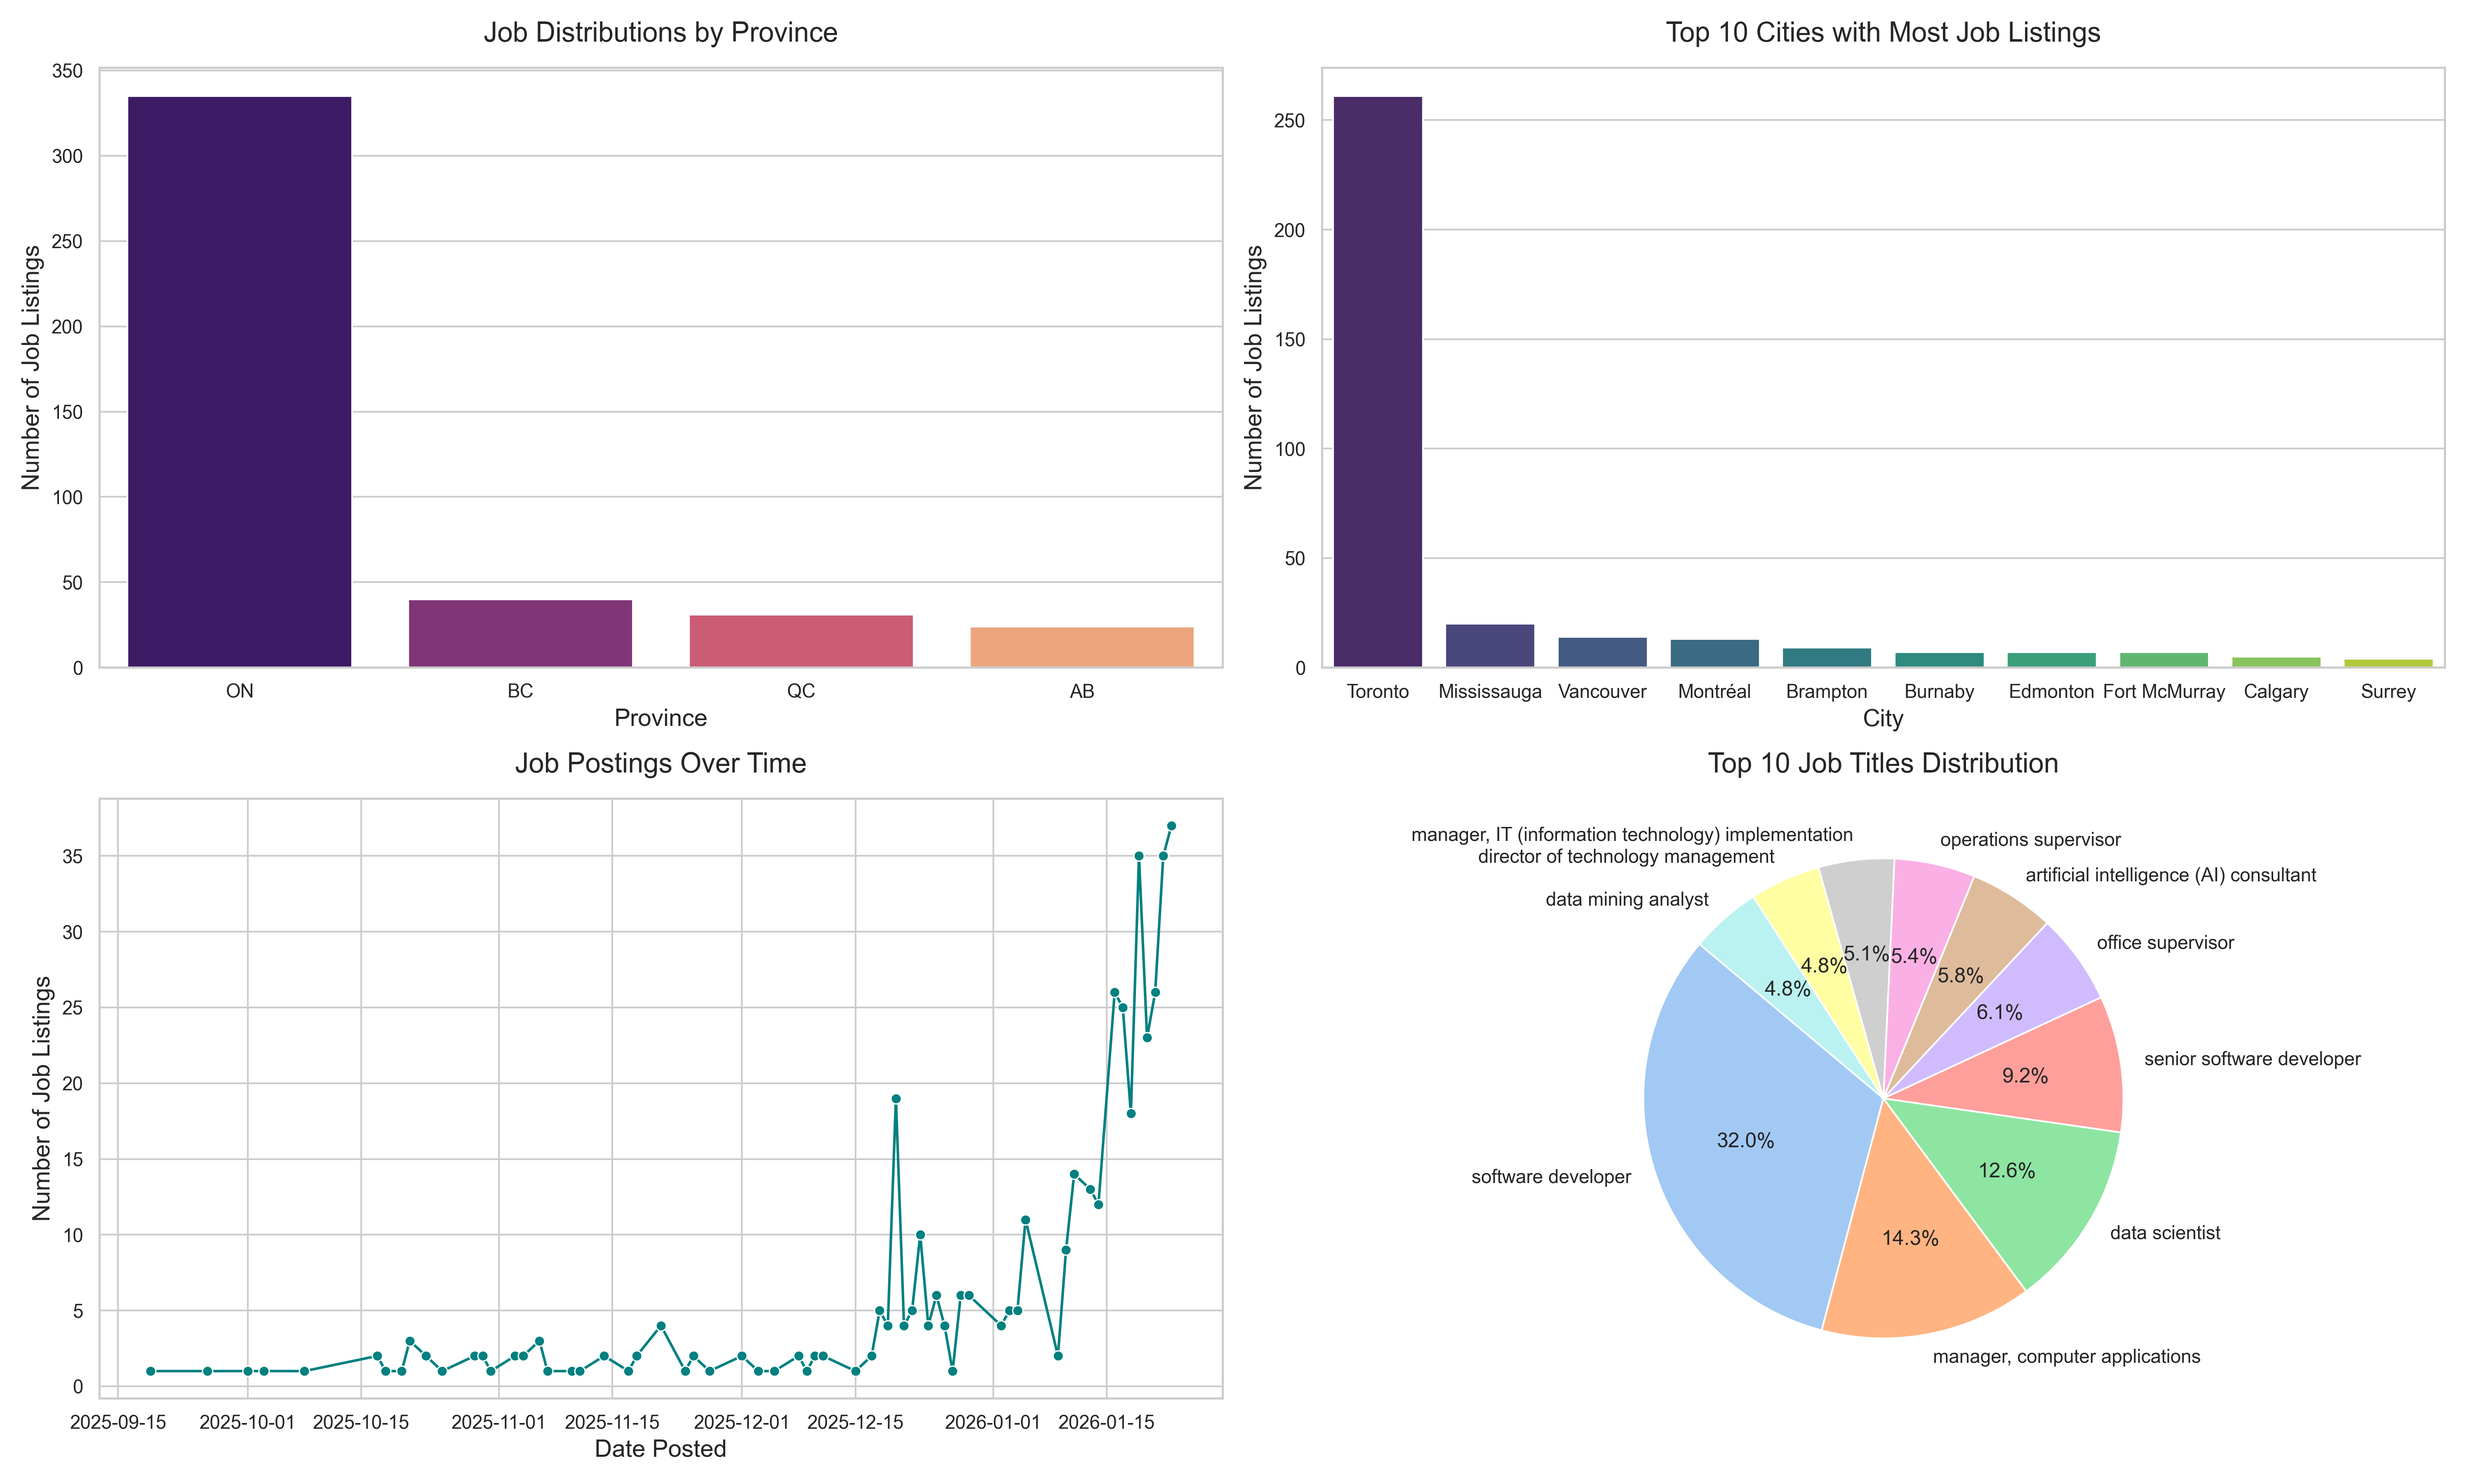
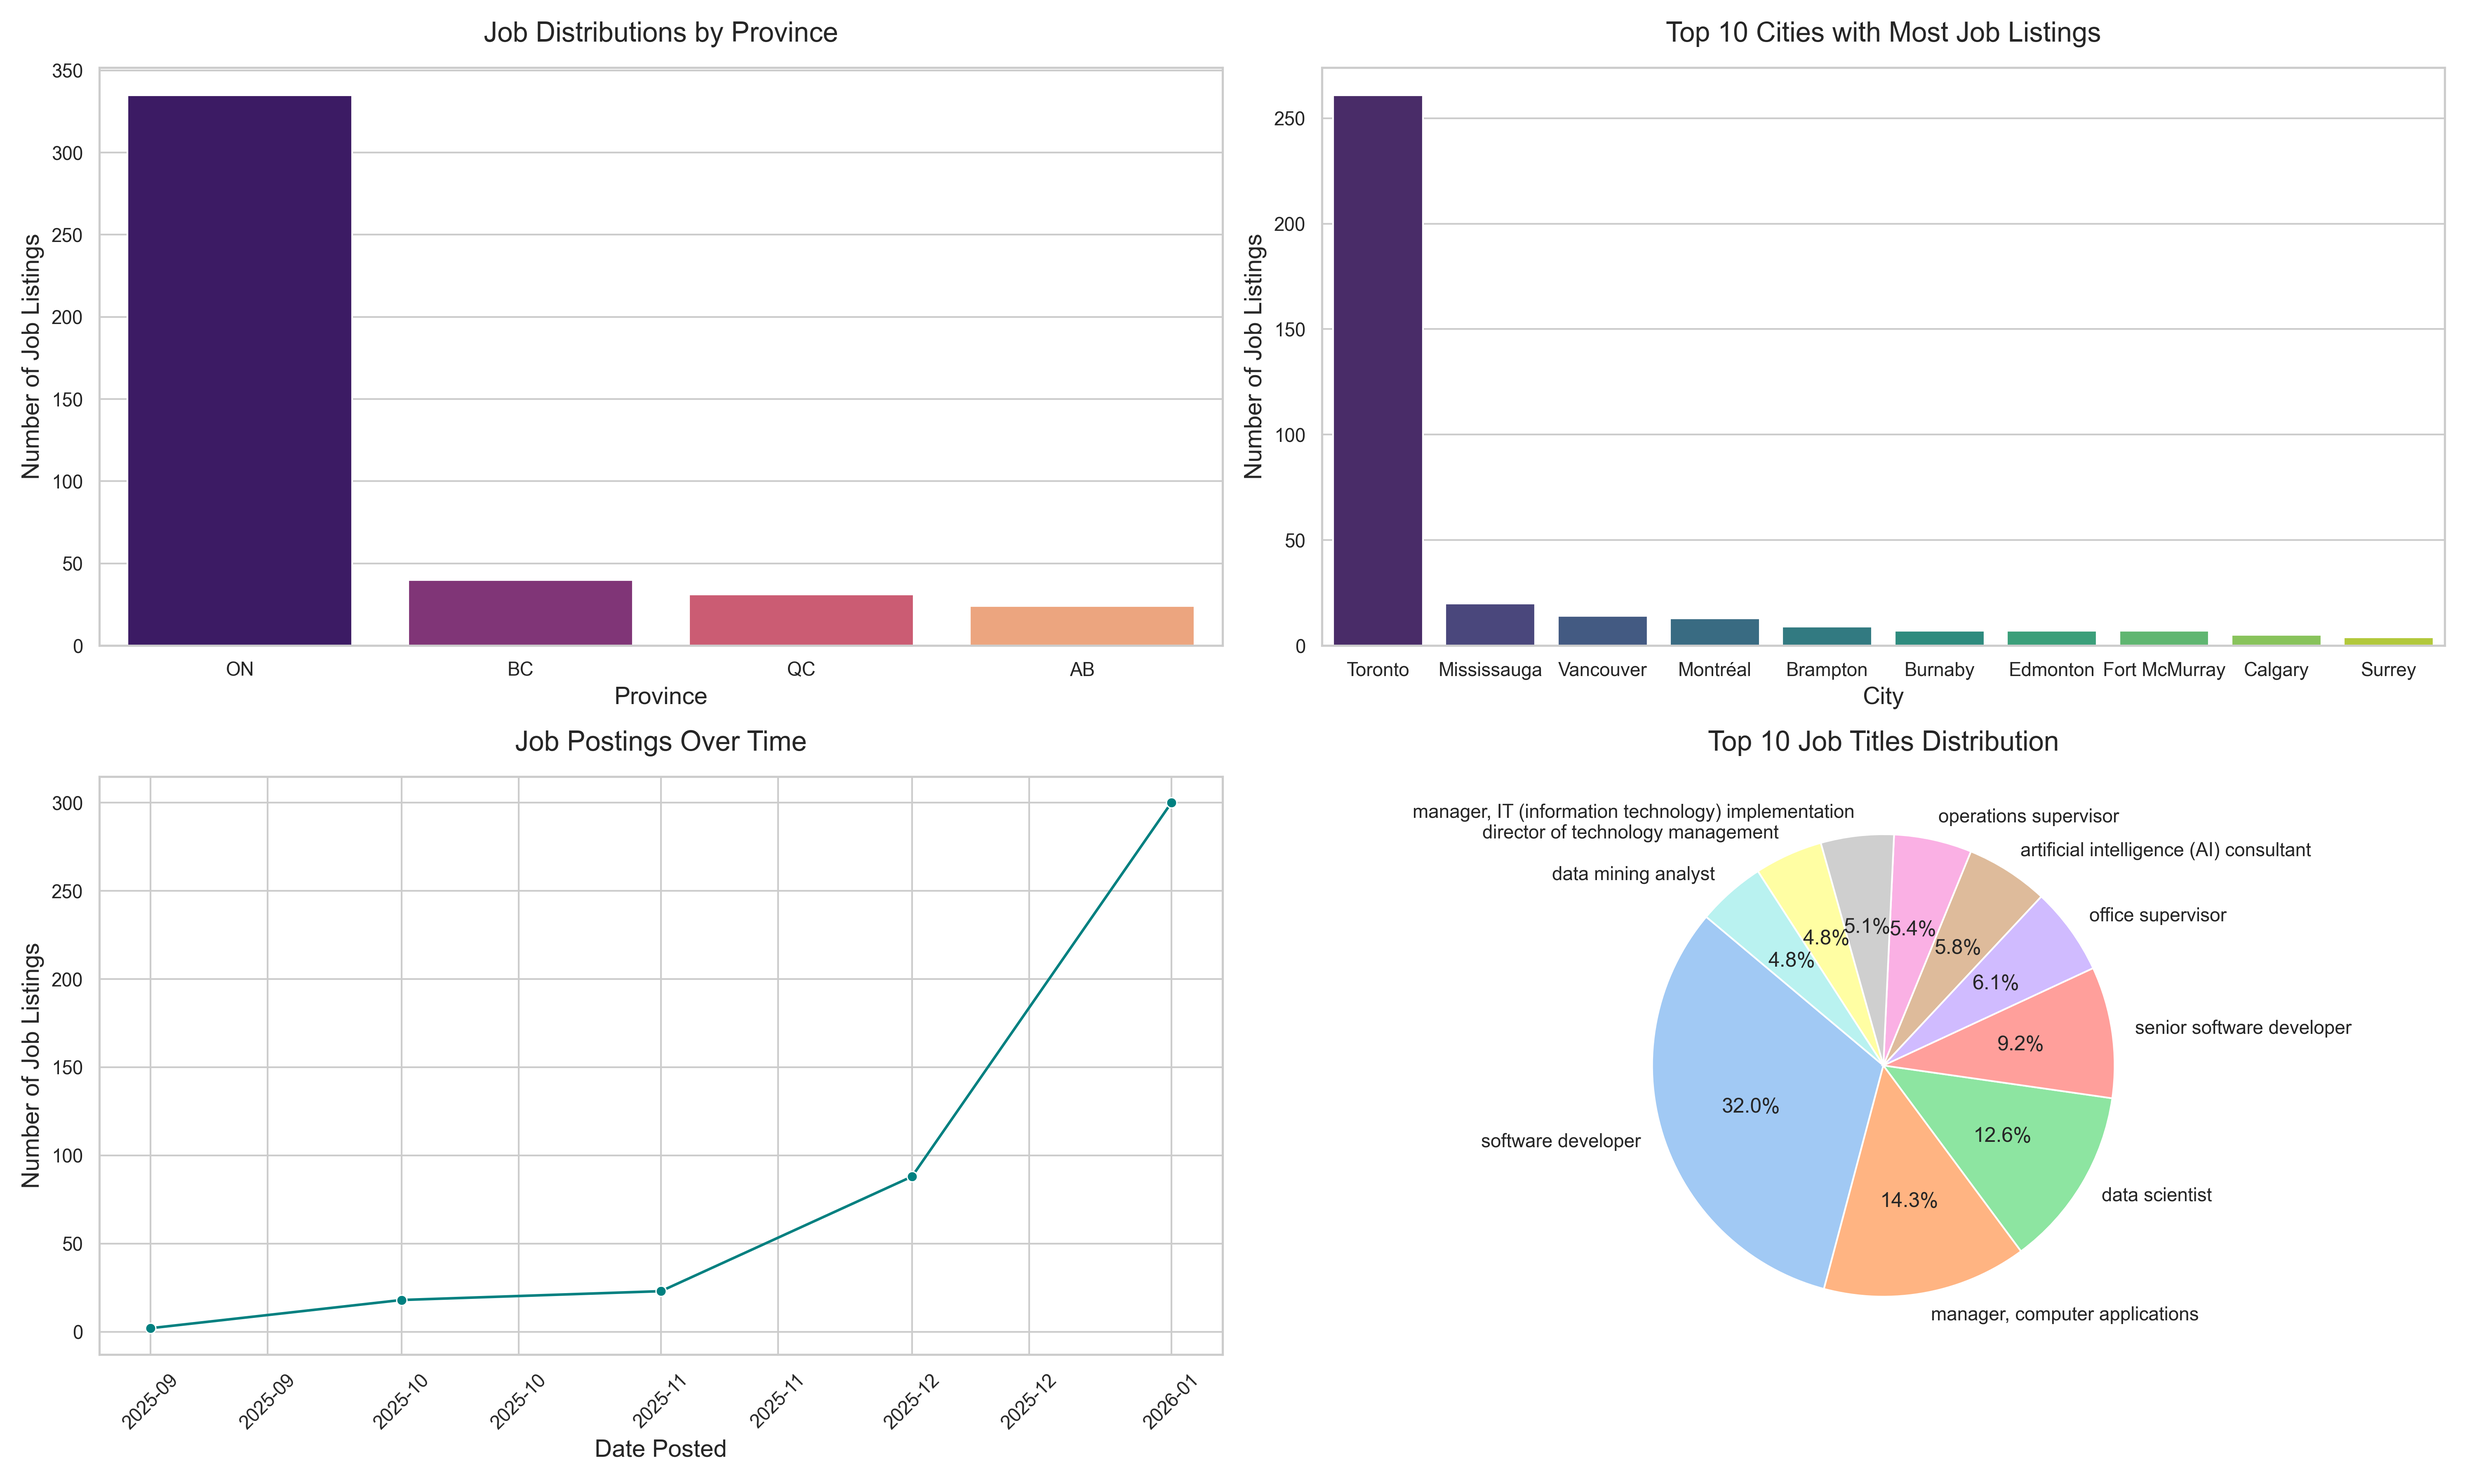
refactor: add contants that indicates all the file names. update Monthly job posting graph.

diff --git a/visualizer.py b/visualizer.py
@@ -1,9 +1,10 @@
 print("=== Generating visualizations ===")
 import pandas as pd
 import matplotlib.pyplot as plt
+import matplotlib.dates as mdates # for date formatting
 import seaborn as sns
 import os
-
+from contants import CLEANED_JOB_LISTINGS_CSV, VISUALIZATION_IMAGE
 
 def generate_visuals(input_file):
     print("=== Starting visualizations ===", flush=True)
@@ -46,15 +47,18 @@ def generate_visuals(input_file):
 
     # Plot 3: Job postings over Time
     df['date_posted'] = pd.to_datetime(df['date_posted'], errors='coerce')
-    date_counts = df['date_posted'].value_counts().sort_index()
+    monthly_counts = df.resample('MS', on='date_posted').size()
+
     sns.lineplot(
-        x=date_counts.index,
-        y=date_counts.values,
+        x=monthly_counts.index,
+        y=monthly_counts.values,
         ax=axes[1 , 0],
         marker="o",
         color="teal"
     )
     axes[1, 0].set_title("Job Postings Over Time", fontsize=16, pad=15)
+    axes[1, 0].xaxis.set_major_formatter(mdates.DateFormatter('%Y-%m'))
+    axes[1, 0].tick_params(axis='x', rotation=45)
     axes[1, 0].set_xlabel("Date Posted", fontsize=14)
     axes[1, 0].set_ylabel("Number of Job Listings", fontsize=14)   
 
@@ -71,12 +75,10 @@ def generate_visuals(input_file):
 
     # optimize layout and saving
     plt.tight_layout()
-    output_image = "job_market_analysis.png"
-    plt.savefig(output_image, dpi=300)
+    plt.savefig(VISUALIZATION_IMAGE, dpi=300)
 
-    print(f"Visualizations saved to {output_image}.", flush=True)
-    plt.show()
+    print(f"Visualizations saved to {VISUALIZATION_IMAGE}.", flush=True)
+    # plt.show()
 
 if __name__ == "__main__":
-    input_file = 'cleaned_job_listings.csv'
-    generate_visuals(input_file)
+    generate_visuals(CLEANED_JOB_LISTINGS_CSV)

diff --git a/cleaner.py b/cleaner.py
@@ -1,6 +1,7 @@
 import pandas as pd
 import os
 import re
+from contants import JOB_LISTINGS_CSV, CLEANED_JOB_LISTINGS_CSV
 
 def clean_data(input_file, output_file):
     if not os.path.exists(input_file):
@@ -70,6 +71,4 @@ def clean_data(input_file, output_file):
     print(f"Cleaned data saved to {output_file} with {len(df_cleaned)} records.")
 
 if __name__ == "__main__":
-    input_file = 'job_listings.csv'
-    output_file = 'cleaned_job_listings.csv'
-    clean_data(input_file, output_file)
+    clean_data(JOB_LISTINGS_CSV, CLEANED_JOB_LISTINGS_CSV)

diff --git a/main.py b/main.py
@@ -1,10 +1,9 @@
 
 from scraper import run_selenium_scraper
 from cleaner import clean_data
+from contants import JOB_LISTINGS_CSV, CLEANED_JOB_LISTINGS_CSV
 
 
 if __name__ == "__main__":
-    job_listings_file = 'job_listings.csv'
-    cleaned_file = 'cleaned_job_listings.csv'
-    run_selenium_scraper(job_listings_file)
-    clean_data(job_listings_file, cleaned_file)
+    run_selenium_scraper(JOB_LISTINGS_CSV)
+    clean_data(JOB_LISTINGS_CSV, CLEANED_JOB_LISTINGS_CSV)

diff --git a/scraper.py b/scraper.py
@@ -4,6 +4,7 @@ import csv
 import time
 import random
 from bs4 import BeautifulSoup
+from contants import JOB_LISTINGS_CSV
 
 # Selenium Imports
 from selenium import webdriver
@@ -210,5 +211,4 @@ def run_selenium_scraper(file_path):
 
 
 if __name__ == "__main__":
-    filename = 'job_listings.csv'
-    run_selenium_scraper(filename)
+    run_selenium_scraper(JOB_LISTINGS_CSV)

diff --git a/contants.py b/contants.py
@@ -1,0 +1,6 @@
+import pathlib as pl
+
+# Define constants for file paths
+JOB_LISTINGS_CSV = pl.Path("job_listings.csv")
+CLEANED_JOB_LISTINGS_CSV = pl.Path("cleaned_job_listings.csv")
+VISUALIZATION_IMAGE = pl.Path("job_market_analysis.png")
